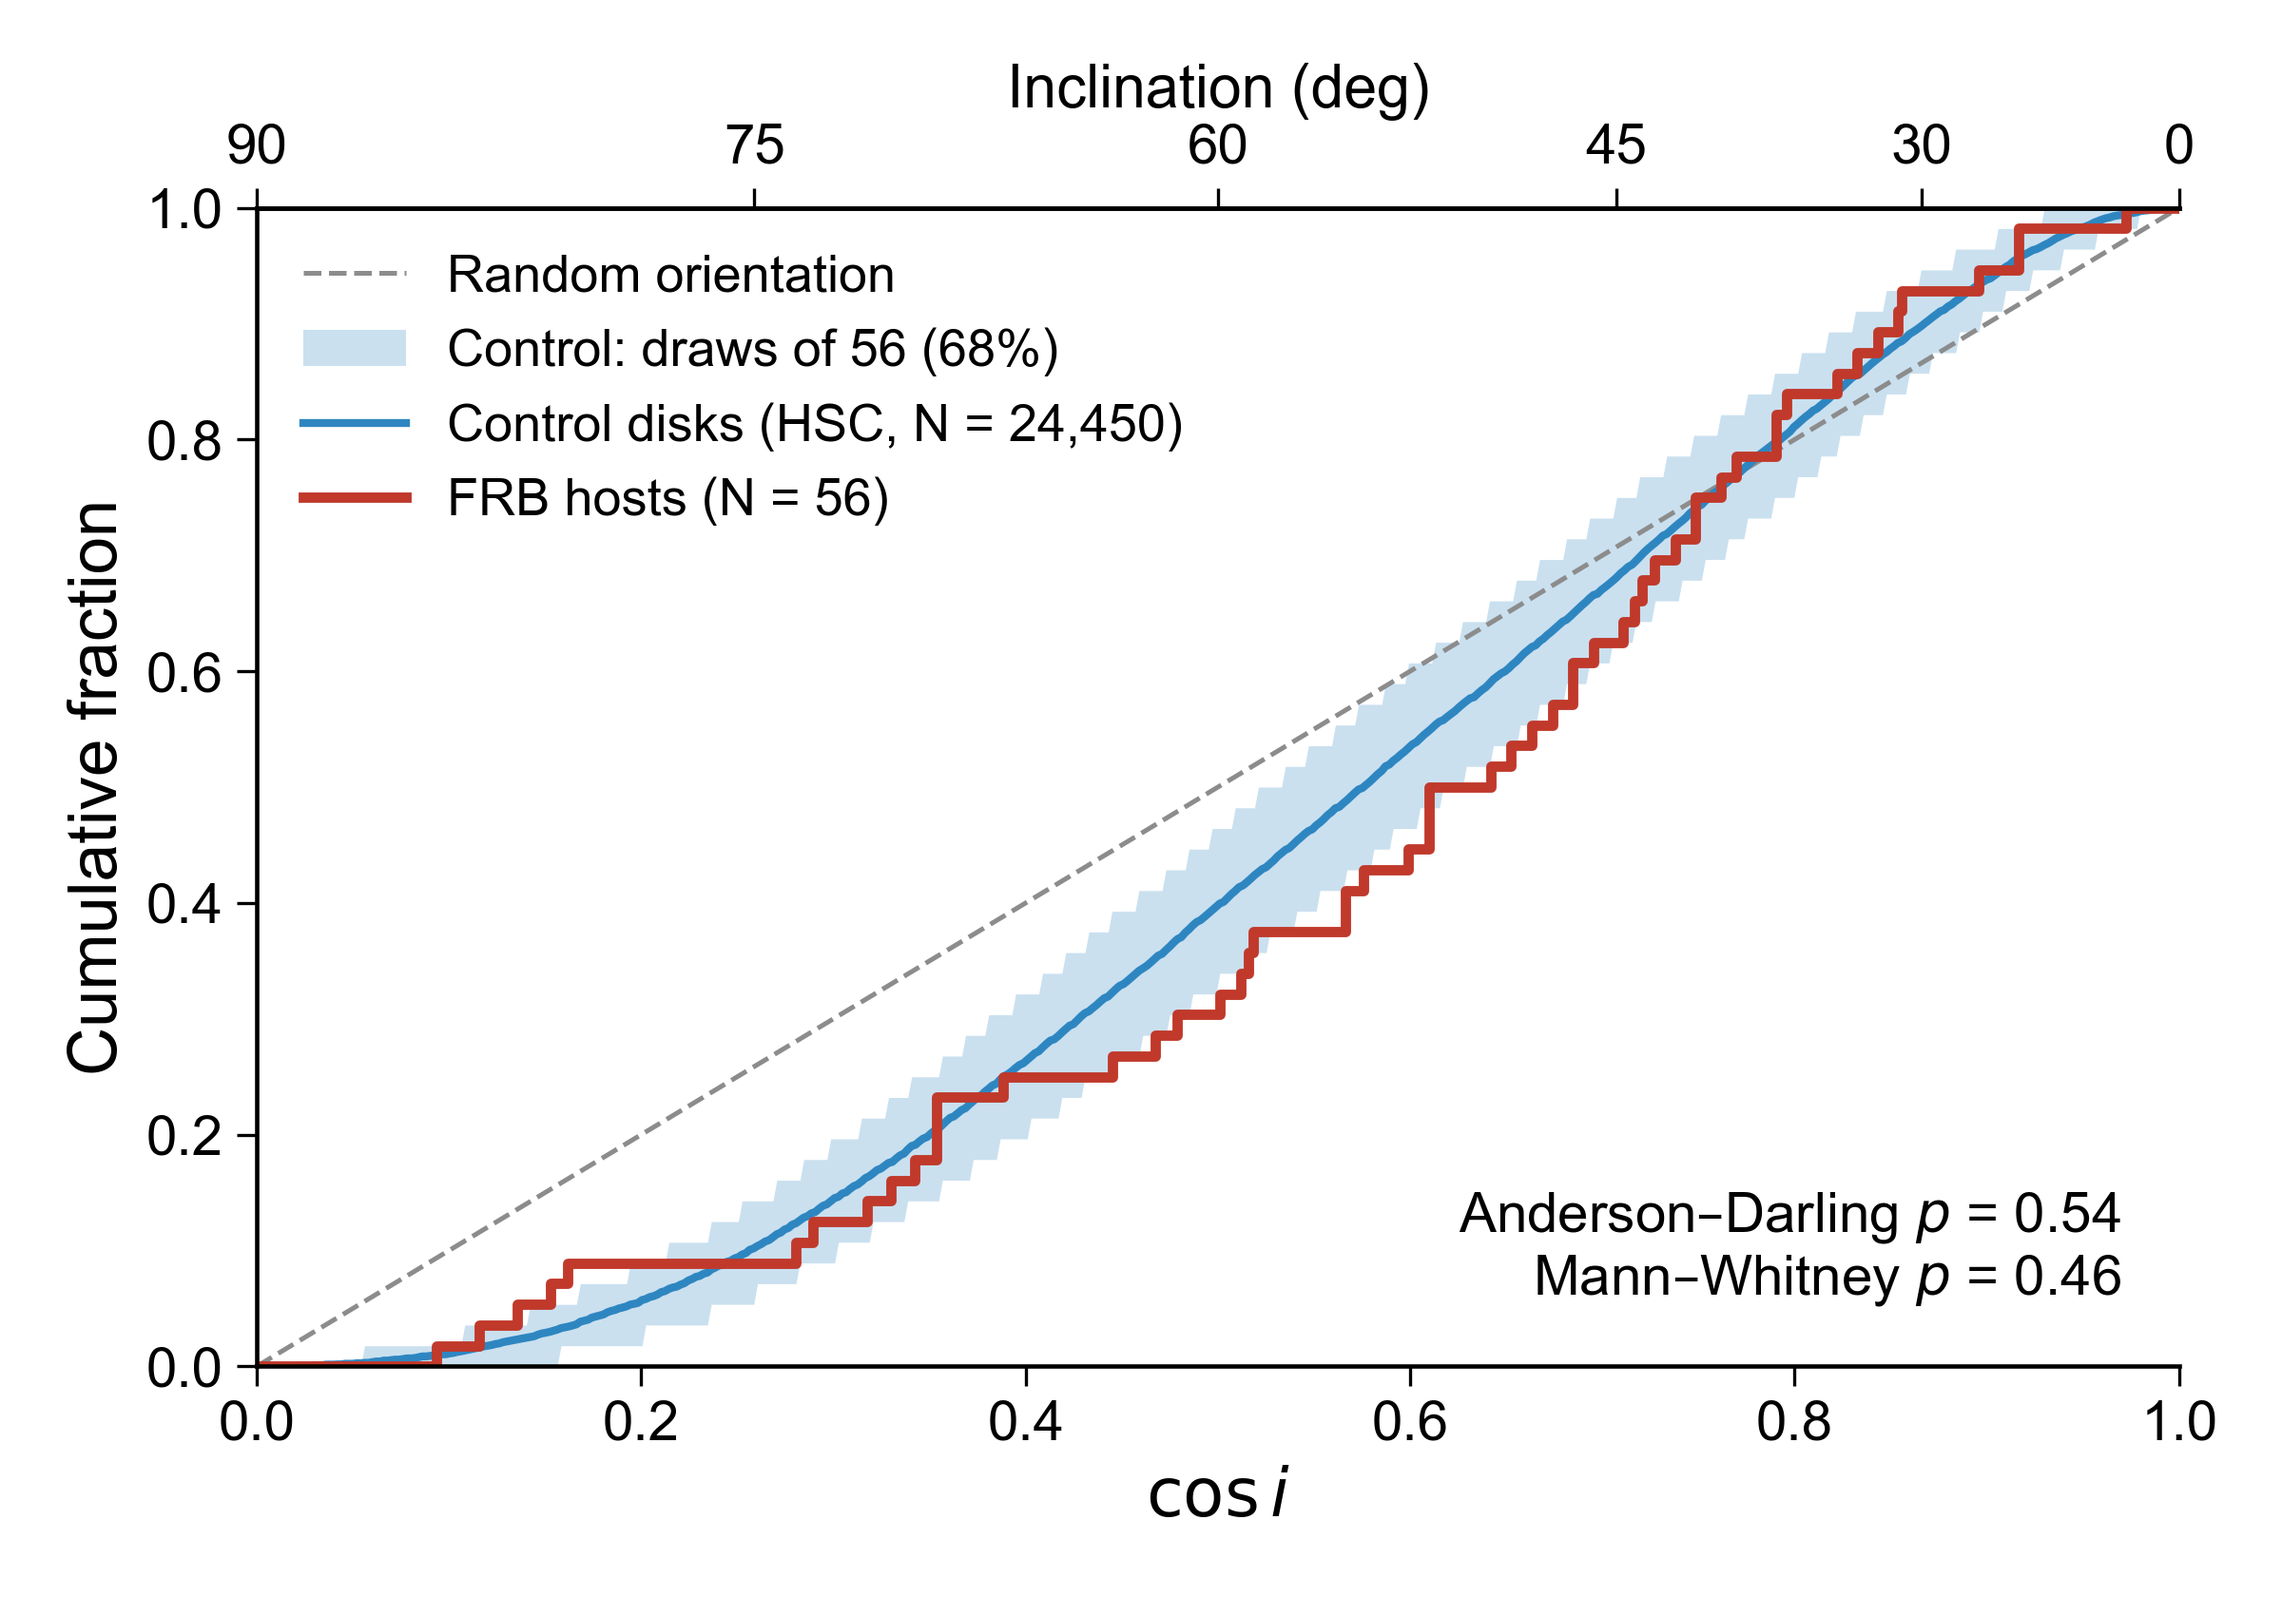
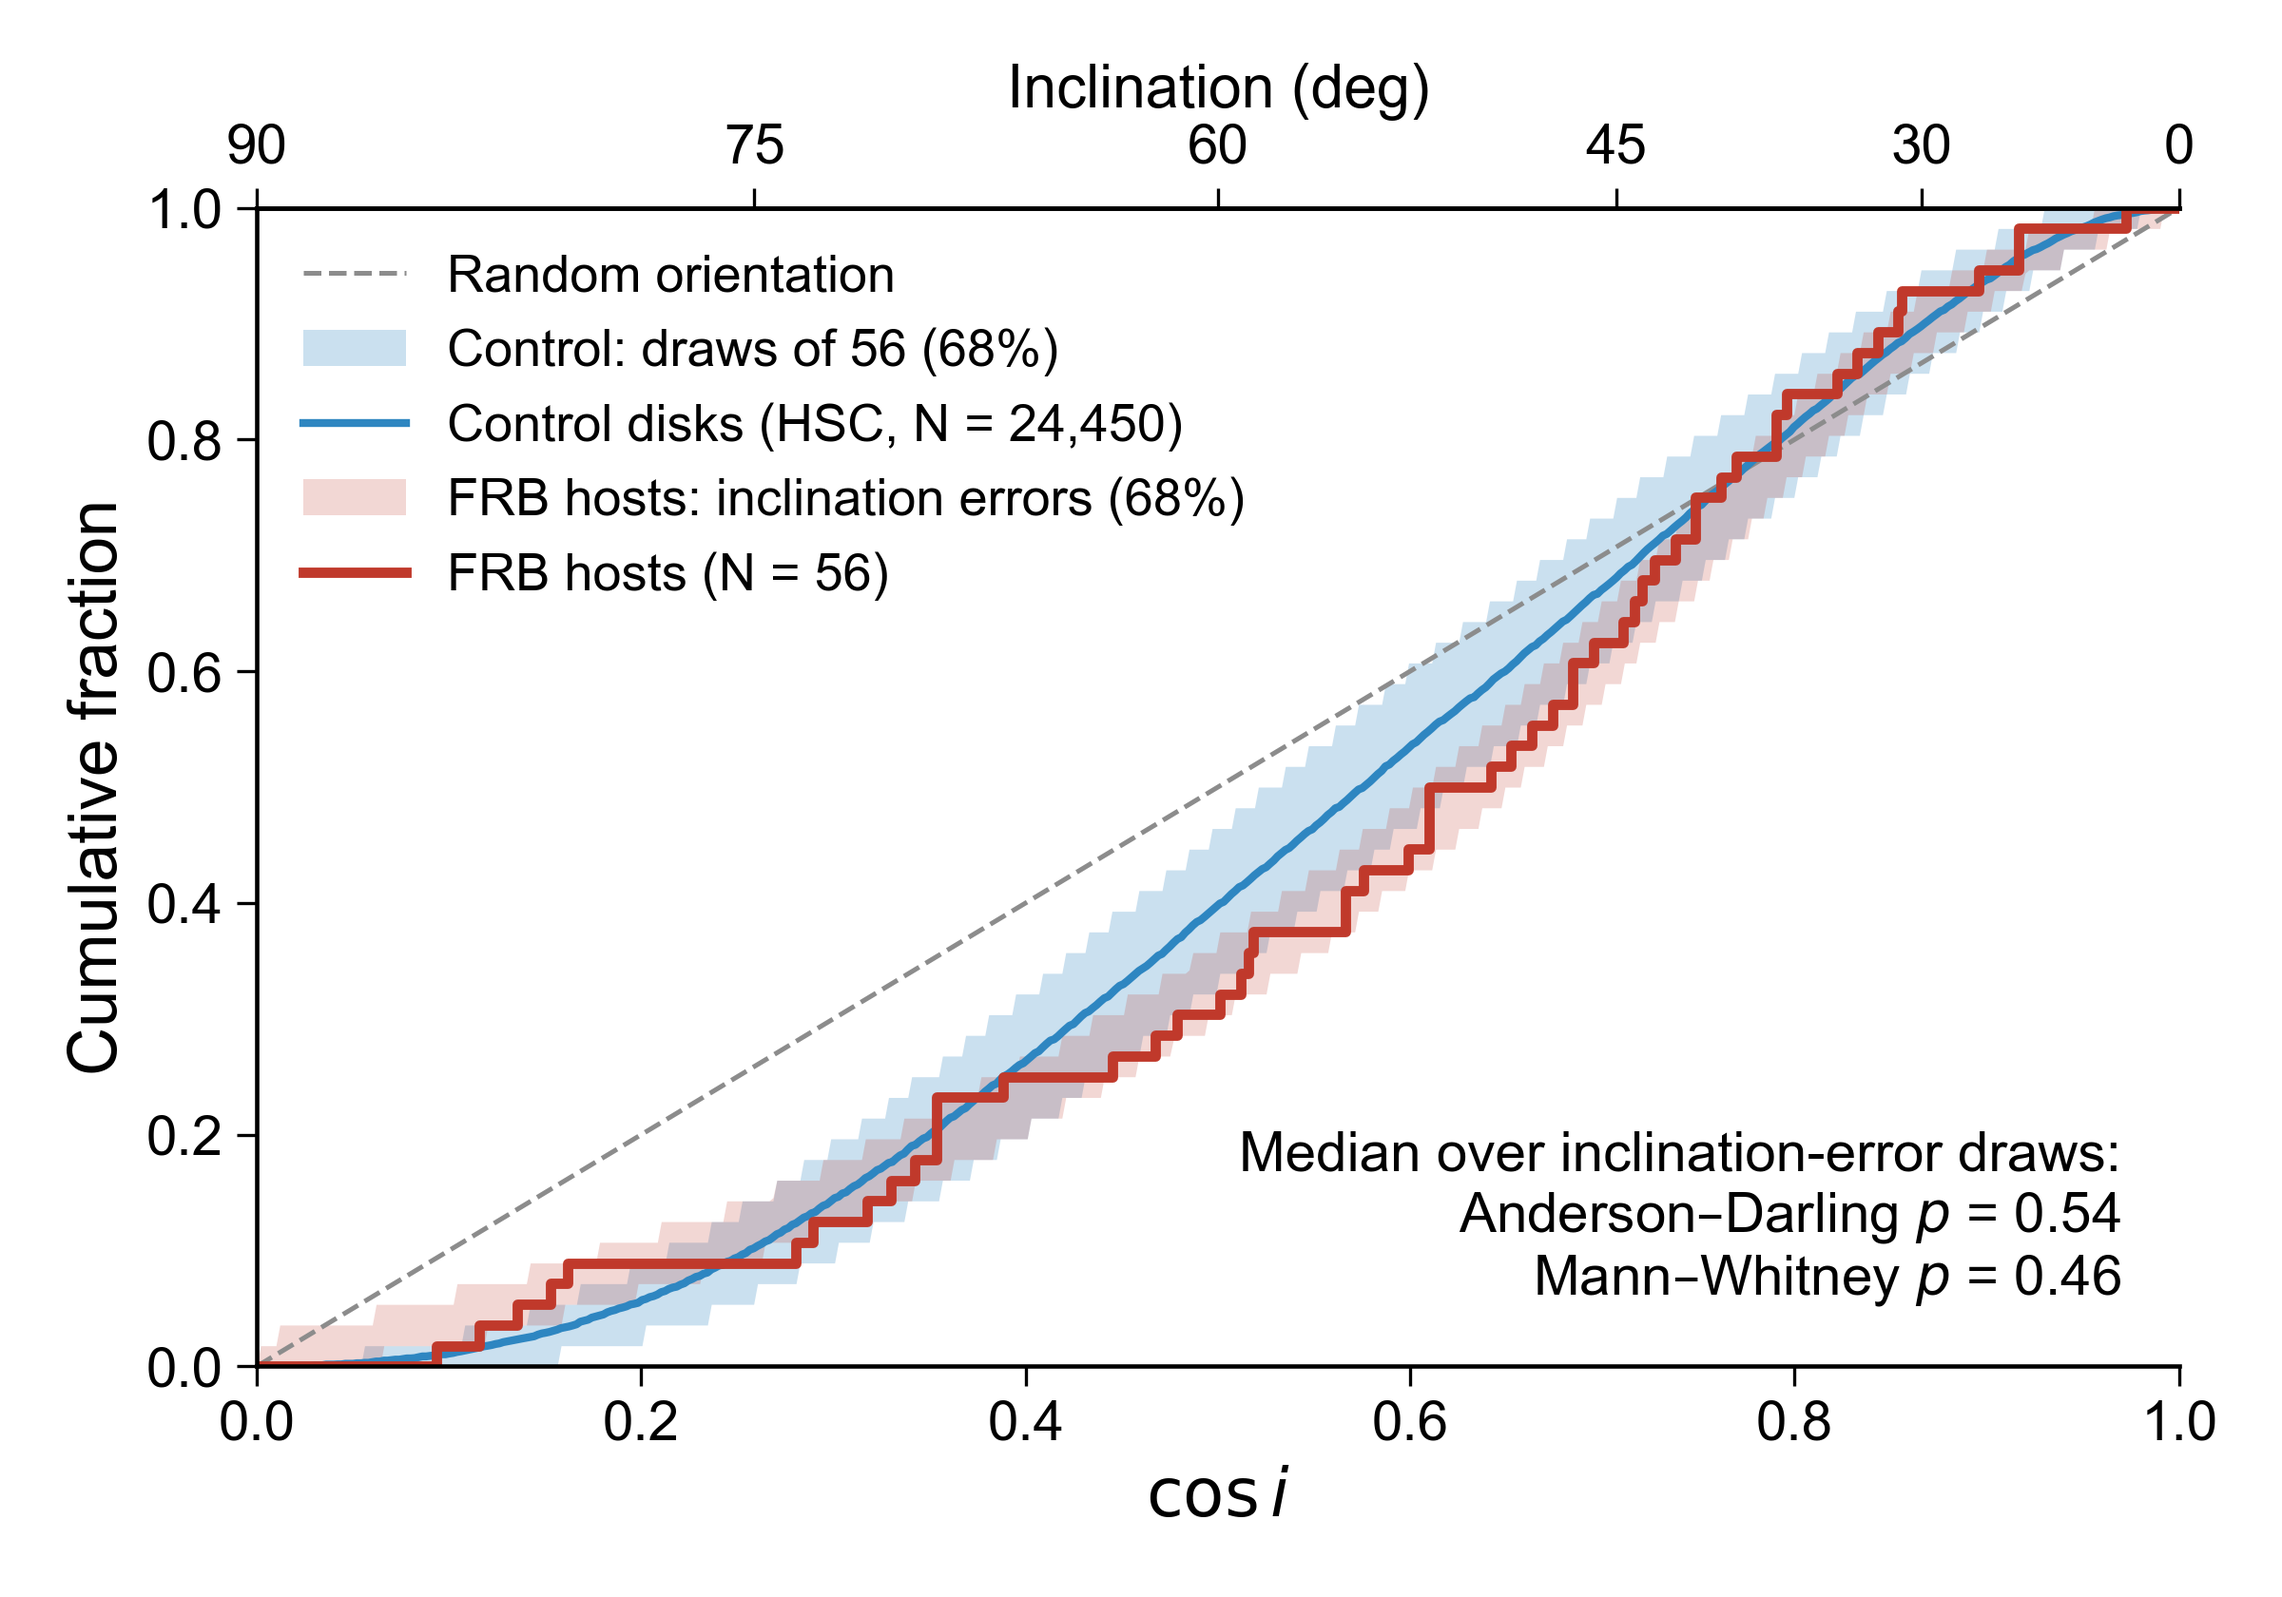
Slide plots: propagated errors on every quantity (DM_host MC, M*, |RM|, tau, inclination); r_S with error-draw range; uncertainty rule

diff --git a/scripts/slide_figures.py b/scripts/slide_figures.py
@@ -4,12 +4,18 @@ disk_gallery_{1,2,3}.png   colour images of the 51 disk hosts, 18 per 16:9 page,
 inclination_vs_control.png FRB host cos i CDF against the HSC disk control
 dm_host_vs_inclination.png, rm_vs_inclination.png, scattering_vs_inclination.png, dm_host_vs_stellar_mass.png
 
+Error bars are 16th-84th percentiles of Monte Carlo draws: inclination from sigma_q (formal + sky) through the
+Hubble relation plus a 5 deg floor; DM_host from DM_cosmic drawn from the Macquart et al. (2020) distribution and
+DM_MW (NE2001) with a 20% error; M* from the quoted literature errors (split normal), |RM| and tau likewise in log10. Spearman r_S
+is quoted with the 16th-84th percentile range over the same draws.
+
 Output: Publication/materials/slides/
 """
 from __future__ import annotations
 
 import re
 import sys
+from dataclasses import dataclass
 from pathlib import Path
 
 import matplotlib
@@ -23,6 +29,8 @@ from scipy.stats import spearmanr
 ROOT = Path(__file__).resolve().parents[1]
 sys.path.insert(0, str(ROOT / "scripts"))
 import appendix_robustness as A  # noqa: E402
+import build_host_property_table as B  # noqa: E402
+import dm_host_physics as DP  # noqa: E402
 import host_gallery as G  # noqa: E402
 import plot_paper_inclination_figures as P  # noqa: E402
 import robust_correlations as R  # noqa: E402
@@ -30,6 +38,8 @@ import robust_correlations as R  # noqa: E402
 OUT = ROOT / "Publication" / "materials" / "slides"
 MOR = ROOT / "Publication" / "materials" / "appendix" / "morphology"
 PER_PAGE, NCOL = 18, 6
+N_MC = 2000
+MSTAR_ASSUMED_DEX = 0.2
 RED, BLUE, GREY = "#C0392B", "#2E86C1", "0.55"
 CLASS_ORDER = {"reliable": 0, "lit": 1, "profile": 2}
 
@@ -115,6 +125,13 @@ def inclination_vs_control() -> None:
     ax.plot([0, 1], [0, 1], color=GREY, ls="--", lw=1.2, label="Random orientation")
     ax.fill_between(grid, lo, hi, color=BLUE, alpha=0.25, lw=0, label=f"Control: draws of {len(frb)} (68%)")
     ax.plot(grid, P.ecdf_at(pool, grid), color=BLUE, lw=2, label=f"Control disks (HSC, N = {len(pool):,})")
+    rng = np.random.default_rng(5)
+    q, sq = hosts["q"].to_numpy(float), np.nan_to_num(hosts["sigma_q_B"].to_numpy(float))
+    qq = np.clip(rng.normal(q, sq, (N_MC, len(q))), P.Q0 + 1e-6, 1.0)
+    inc = np.clip(P._hubble_inc_deg(qq, q0=P.Q0) + rng.normal(0, P.FLOOR_DEG, qq.shape), 0, 90)
+    cdf = np.array([P.ecdf_at(c, grid) for c in np.cos(np.radians(inc))])
+    flo, fhi = np.percentile(cdf, [16, 84], axis=0)
+    ax.fill_between(grid, flo, fhi, color=RED, alpha=0.2, lw=0, label="FRB hosts: inclination errors (68%)")
     x, y = P.step_xy(frb)
     ax.step(x, y, where="post", color=RED, lw=2.6, label=f"FRB hosts (N = {len(frb)})")
     ax.set(xlim=(0, 1), ylim=(0, 1), xlabel=r"$\cos i$", ylabel="Cumulative fraction")
@@ -124,7 +141,8 @@ def inclination_vs_control() -> None:
     top.set_xlabel("Inclination (deg)", fontsize=15)
     ax.spines["top"].set_visible(True)
     ax.legend(loc="upper left", frameon=False)
-    ax.text(0.97, 0.05, f"Anderson–Darling $p$ = {pm.ad_pm:.2f}\nMann–Whitney $p$ = {pm.mw2_pm:.2f}",
+    ax.text(0.97, 0.05, f"Median over inclination-error draws:\nAnderson–Darling $p$ = {pm.ad_pm:.2f}\n"
+                        f"Mann–Whitney $p$ = {pm.mw2_pm:.2f}",
             transform=ax.transAxes, ha="right", va="bottom", fontsize=14)
     finish(fig, "inclination_vs_control")
 
@@ -137,36 +155,125 @@ def finish(fig, stem: str) -> None:
     print(stem, flush=True)
 
 
-def scatter(x, y, xerr, xlabel, ylabel, stem, logy=False, xlim=None) -> None:
-    ok = np.isfinite(x) & np.isfinite(y) & ((y > 0) if logy else True)
-    x, y = x[ok], y[ok]
+@dataclass
+class Quantity:
+    value: np.ndarray
+    draws: np.ndarray
+    label: str
+    assumed: np.ndarray | None = None
+
+    def bars(self, ok):
+        lo, hi = np.nanpercentile(self.draws[:, ok], [16, 84], axis=0)
+        v = self.value[ok]
+        return np.vstack([np.clip(v - lo, 0, None), np.clip(hi - v, 0, None)])
+
+
+def split_normal(v, ep, em, rng, n=N_MC):
+    u = rng.standard_normal((n, len(v)))
+    return v + np.where(u > 0, u * ep, u * em)
+
+
+def split_lognormal(v, ep, em, rng):
+    """Positive quantities: split normal in log10, with v + ep and v - em at +-1 sigma (lower side mirrors the
+    upper when em >= v)."""
+    with np.errstate(divide="ignore", invalid="ignore"):
+        sp = np.log10((v + ep) / v)
+        sm = np.where(em < v, np.log10(v / (v - em)), sp)
+    return 10 ** split_normal(np.log10(v), sp, sm, rng)
+
+
+def literature_errors(d: pd.DataFrame, q: str) -> tuple[np.ndarray, np.ndarray]:
+    """err_plus, err_minus of the adopted literature value; if that row has none, the error another source
+    quotes for the same burst."""
+    L = B.load_long()
+    ep, em = np.full(len(d), np.nan), np.full(len(d), np.nan)
+    for k, f in enumerate(d.frb):
+        rows = L[(L.frb == f) & (L.quantity == q)]
+        got = B.pick(L, f, q)
+        cand = ([got[1:3]] if got else []) + list(zip(rows.err_plus, rows.err_minus))
+        for p, m in cand:
+            p, m = abs(B.to_num(p)), abs(B.to_num(m))
+            if np.isfinite(p):
+                ep[k], em[k] = p, m if np.isfinite(m) else p
+                break
+    return ep, em
+
+
+def quantities(d: pd.DataFrame) -> dict[str, Quantity]:
+    rng = np.random.default_rng(7)
+    q, sq = d.q.to_numpy(float), np.nan_to_num(d.sigma_q_B.to_numpy(float))
+    qq = np.clip(rng.normal(q, sq, (N_MC, len(q))), P.Q0 + 1e-6, 1.0)
+    inc = np.clip(P._hubble_inc_deg(qq, q0=P.Q0) + rng.normal(0, P.FLOOR_DEG, qq.shape), 0, 90)
+
+    DP.N_MC = N_MC
+    dm = DP.dm_host_draws(d, rng)
+
+    ms = d.logmstar.to_numpy(float)
+    p57 = pd.read_csv(ROOT / "Publication/materials/host_properties/host_properties_57.csv",
+                      dtype={"frb": str}).set_index("frb")
+    ep = pd.to_numeric(d.frb.map(p57.logmstar_ep), errors="coerce").abs().to_numpy()
+    em = pd.to_numeric(d.frb.map(p57.logmstar_em), errors="coerce").abs().to_numpy()
+    lp, lm = literature_errors(d, "logmstar")
+    ep, em = np.where(np.isfinite(ep), ep, lp), np.where(np.isfinite(em), em, lm)
+    assumed = np.isfinite(ms) & ~np.isfinite(ep)
+    ep, em = np.where(assumed, MSTAR_ASSUMED_DEX, ep), np.where(assumed, MSTAR_ASSUMED_DEX, em)
+
+    rm = d.abs_rm.to_numpy(float)
+    rp, rmn = literature_errors(d, "rm_rad_m2")
+    tau = d.tau_scatt_ms.to_numpy(float)
+    tp, tm = literature_errors(d, "tau_scatt_ms")
+    for name, v, e in (("|RM|", rm, rp), ("tau", tau, tp)):
+        miss = np.isfinite(v) & ~np.isfinite(e)
+        if miss.any():
+            raise ValueError(f"{name} without an error: {list(d.frb[miss])}")
+
+    return dict(
+        inc=Quantity(d.i_deg.to_numpy(float), inc, "Host inclination $i$ (deg)"),
+        dm=Quantity(d.dm_host_rest.to_numpy(float), dm, r"DM$_{\rm host}$ (pc cm$^{-3}$, rest frame)"),
+        ms=Quantity(ms, split_normal(ms, ep, em, rng), r"$\log_{10}(M_*/M_\odot)$", assumed),
+        rm=Quantity(rm, split_lognormal(rm, rp, rmn, rng), r"|RM| (rad m$^{-2}$)"),
+        tau=Quantity(tau, split_lognormal(tau, tp, tm, rng), r"Scattering time $\tau$ (ms)"),
+    )
+
+
+def scatter(X: Quantity, Y: Quantity, stem: str, logy=False, xlim=None) -> None:
+    ok = np.isfinite(X.value) & np.isfinite(Y.value)
+    x, y = X.value[ok], Y.value[ok]
     r, p = spearmanr(x, y)
+    r_mc = np.array([spearmanr(a, b)[0] for a, b in zip(X.draws[:, ok], Y.draws[:, ok])])
+    r_lo, r_hi = np.percentile(r_mc, [16, 84])
+    flagged = X.assumed[ok] if X.assumed is not None else np.zeros(len(x), bool)
+
     fig, ax = plt.subplots(figsize=(8, 5.6))
-    if xerr is not None:
-        ax.errorbar(x, y, xerr=xerr[ok], fmt="none", ecolor="0.75", elinewidth=1, zorder=1)
-    ax.scatter(x, y, s=70, color=RED, edgecolor="white", linewidth=0.8, zorder=2)
+    ax.errorbar(x, y, xerr=X.bars(ok), yerr=Y.bars(ok), fmt="none", ecolor="0.7", elinewidth=1, zorder=1)
+    ax.scatter(x[~flagged], y[~flagged], s=70, color=RED, edgecolor="white", linewidth=0.8, zorder=2)
+    if flagged.any():
+        ax.scatter(x[flagged], y[flagged], s=70, facecolor="white", edgecolor=RED, linewidth=1.6, zorder=2,
+                   label=fr"No quoted error ($\pm${MSTAR_ASSUMED_DEX} dex assumed)")
+        ax.legend(loc="lower left", frameon=False, fontsize=12)
     if logy:
         ax.set_yscale("log")
-    ax.set(xlabel=xlabel, ylabel=ylabel)
+        lo, hi = ax.get_ylim()
+        ax.set_ylim(lo, hi * (hi / lo) ** 0.22)
+    else:
+        lo, hi = ax.get_ylim()
+        ax.set_ylim(lo, hi + 0.22 * (hi - lo))
+    ax.set(xlabel=X.label, ylabel=Y.label)
     if xlim:
         ax.set_xlim(*xlim)
-    ax.text(0.97, 0.95, f"Spearman $r_S$ = {r:+.2f}\n$p$ = {p:.2f}, N = {len(x)}", transform=ax.transAxes,
-            ha="right", va="top", fontsize=14, bbox=dict(fc="white", ec="0.8", boxstyle="round,pad=0.4"))
+    ax.text(0.97, 0.95, f"Spearman $r_S$ = {r:+.2f} ({r_lo:+.2f}, {r_hi:+.2f})\n$p$ = {p:.2f}, N = {len(x)}",
+            transform=ax.transAxes, ha="right", va="top", fontsize=14,
+            bbox=dict(fc="white", ec="0.8", boxstyle="round,pad=0.4"))
     finish(fig, stem)
+    print(f"  r_S = {r:+.3f} [{r_lo:+.3f}, {r_hi:+.3f}] p = {p:.3f} N = {len(x)}", flush=True)
 
 
 def correlations() -> None:
-    d = R.load()
-    sig_i = P.sigma_i_deg(d.q.to_numpy(float), d.sigma_q_B.to_numpy(float), np.random.default_rng(3))
-    i = d.i_deg.to_numpy(float)
-    inc = "Host inclination $i$ (deg)"
-    scatter(i, d.dm_host_rest.to_numpy(float), sig_i, inc, r"DM$_{\rm host}$ (pc cm$^{-3}$, rest frame)",
-            "dm_host_vs_inclination", xlim=(0, 90))
-    scatter(i, d.abs_rm.to_numpy(float), sig_i, inc, r"|RM| (rad m$^{-2}$)", "rm_vs_inclination", logy=True, xlim=(0, 90))
-    scatter(i, d.tau_scatt_ms.to_numpy(float), sig_i, inc, r"Scattering time $\tau$ (ms)", "scattering_vs_inclination",
-            logy=True, xlim=(0, 90))
-    scatter(d.logmstar.to_numpy(float), d.dm_host_rest.to_numpy(float), None, r"$\log_{10}(M_*/M_\odot)$",
-            r"DM$_{\rm host}$ (pc cm$^{-3}$, rest frame)", "dm_host_vs_stellar_mass")
+    Q = quantities(R.load())
+    scatter(Q["inc"], Q["dm"], "dm_host_vs_inclination", xlim=(0, 90))
+    scatter(Q["inc"], Q["rm"], "rm_vs_inclination", logy=True, xlim=(0, 90))
+    scatter(Q["inc"], Q["tau"], "scattering_vs_inclination", logy=True, xlim=(0, 90))
+    scatter(Q["ms"], Q["dm"], "dm_host_vs_stellar_mass")
 
 
 def main() -> None:
